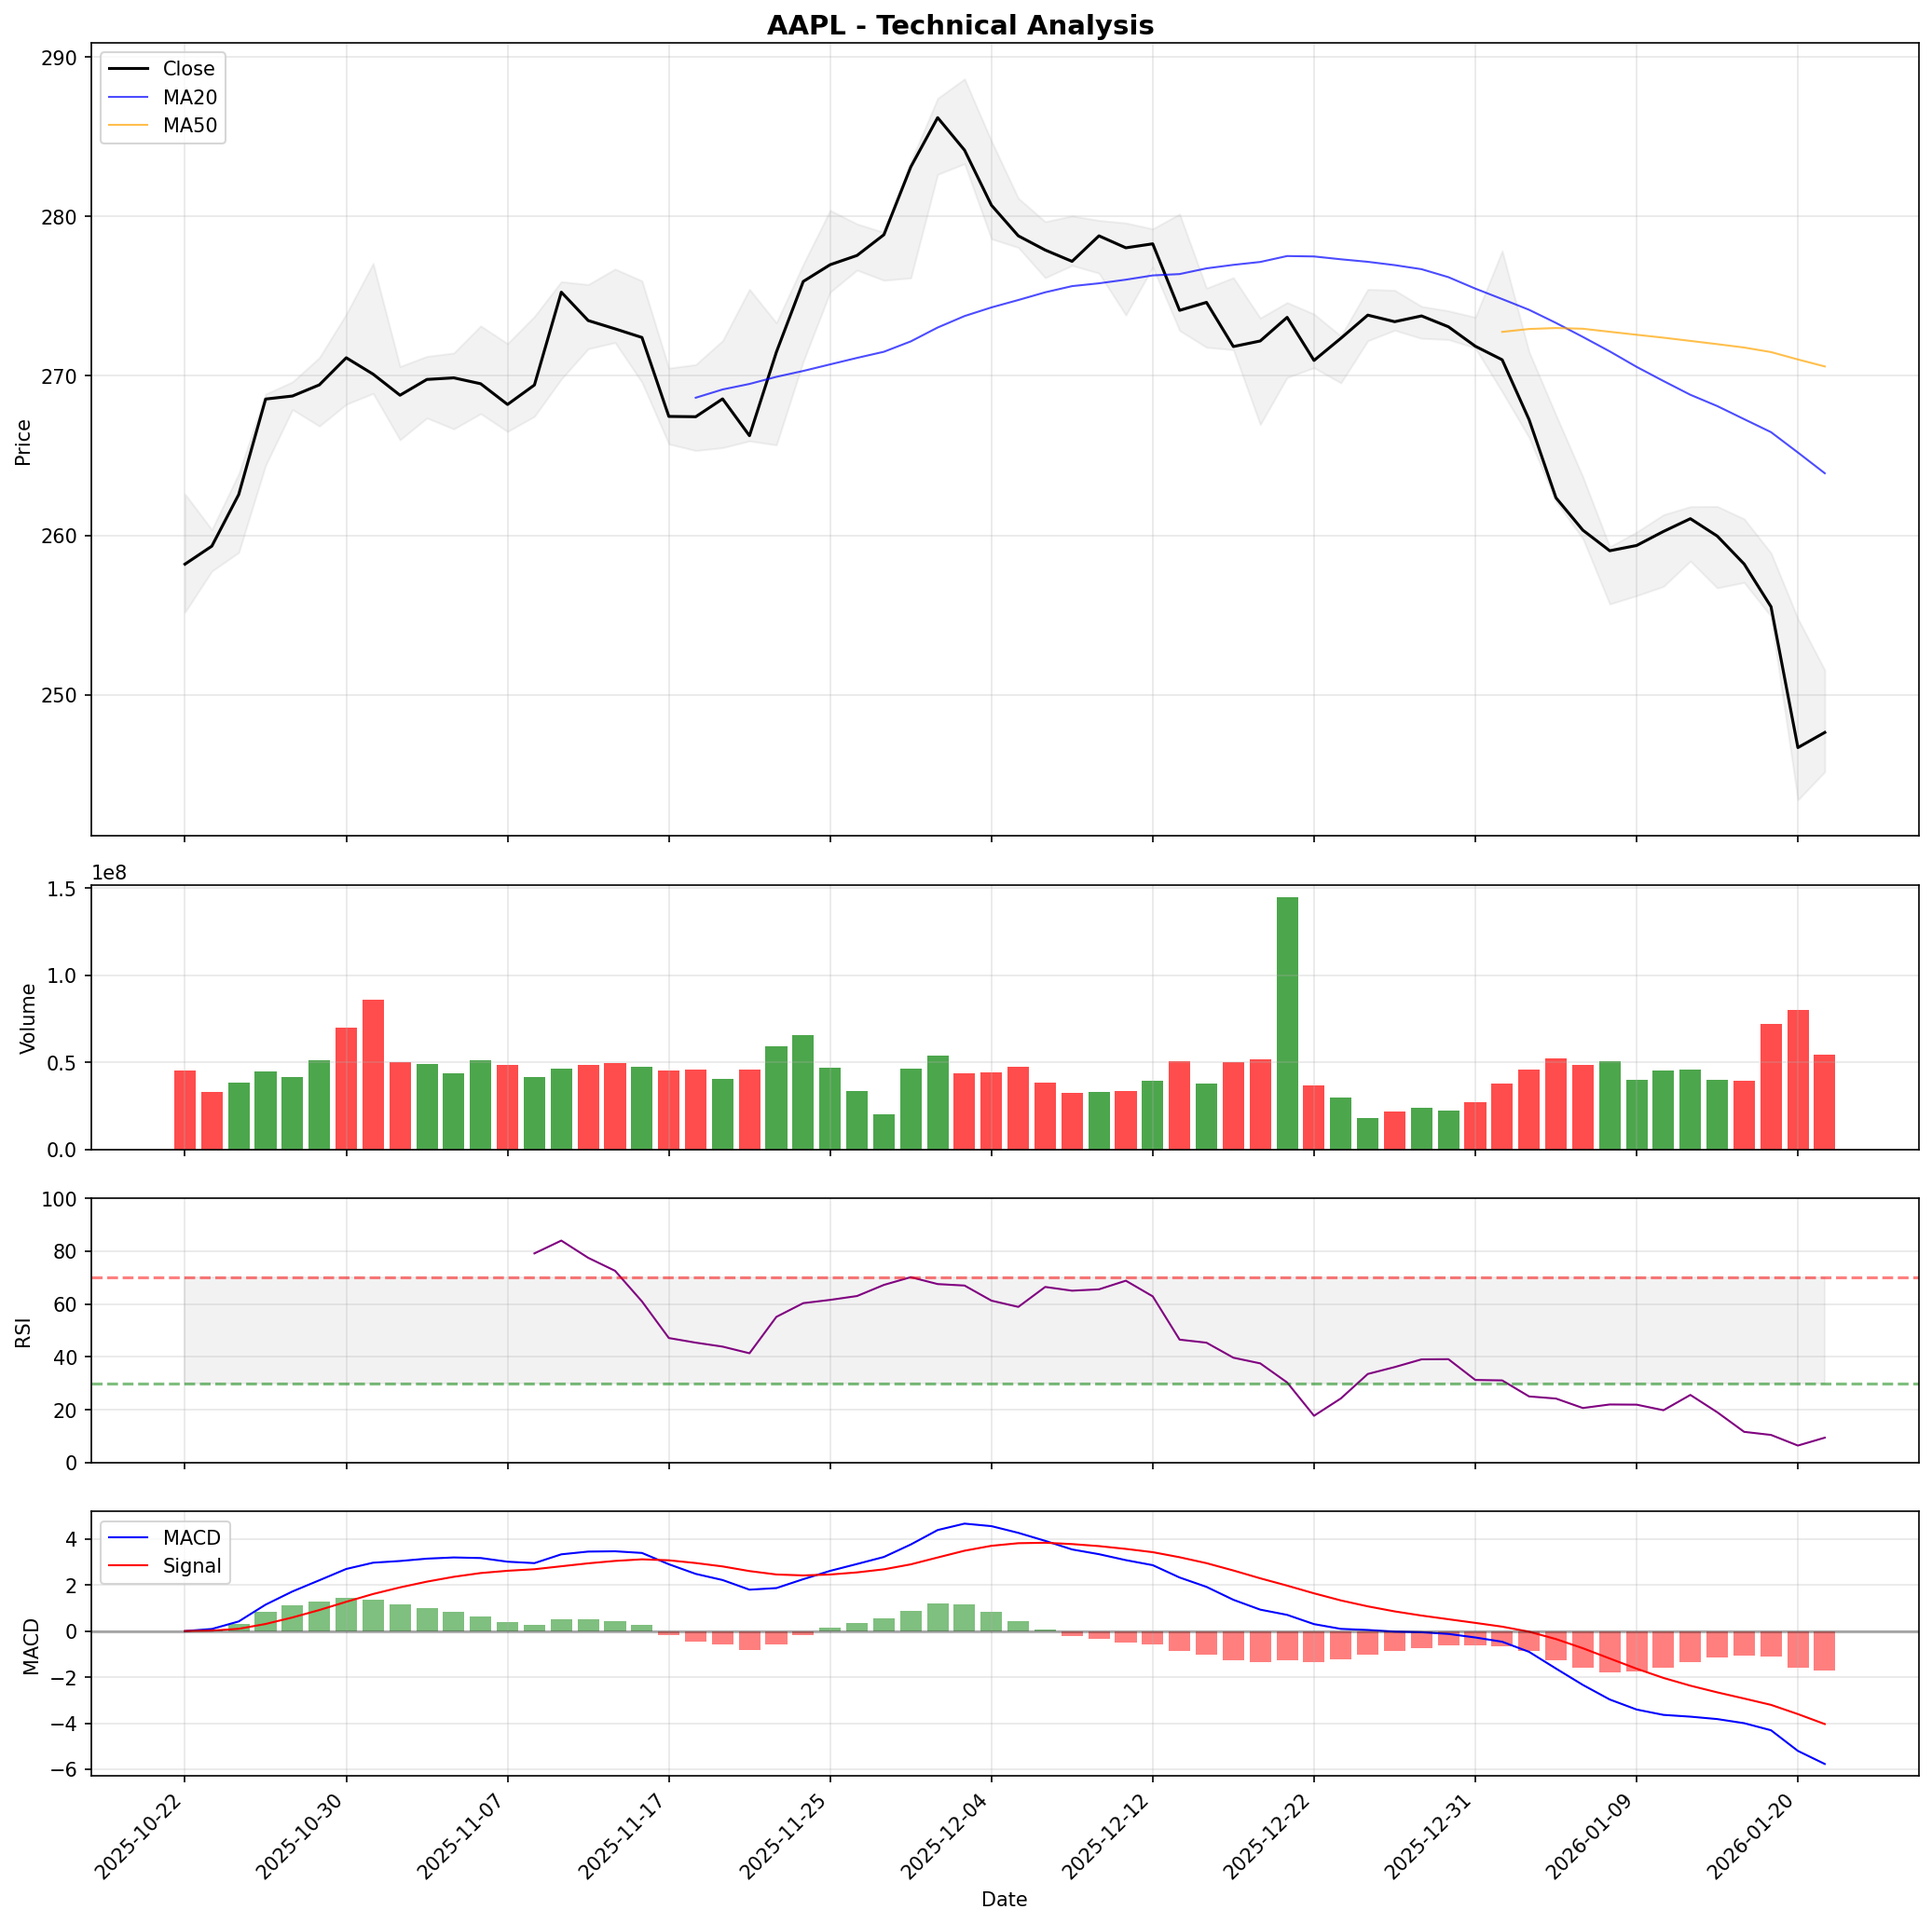
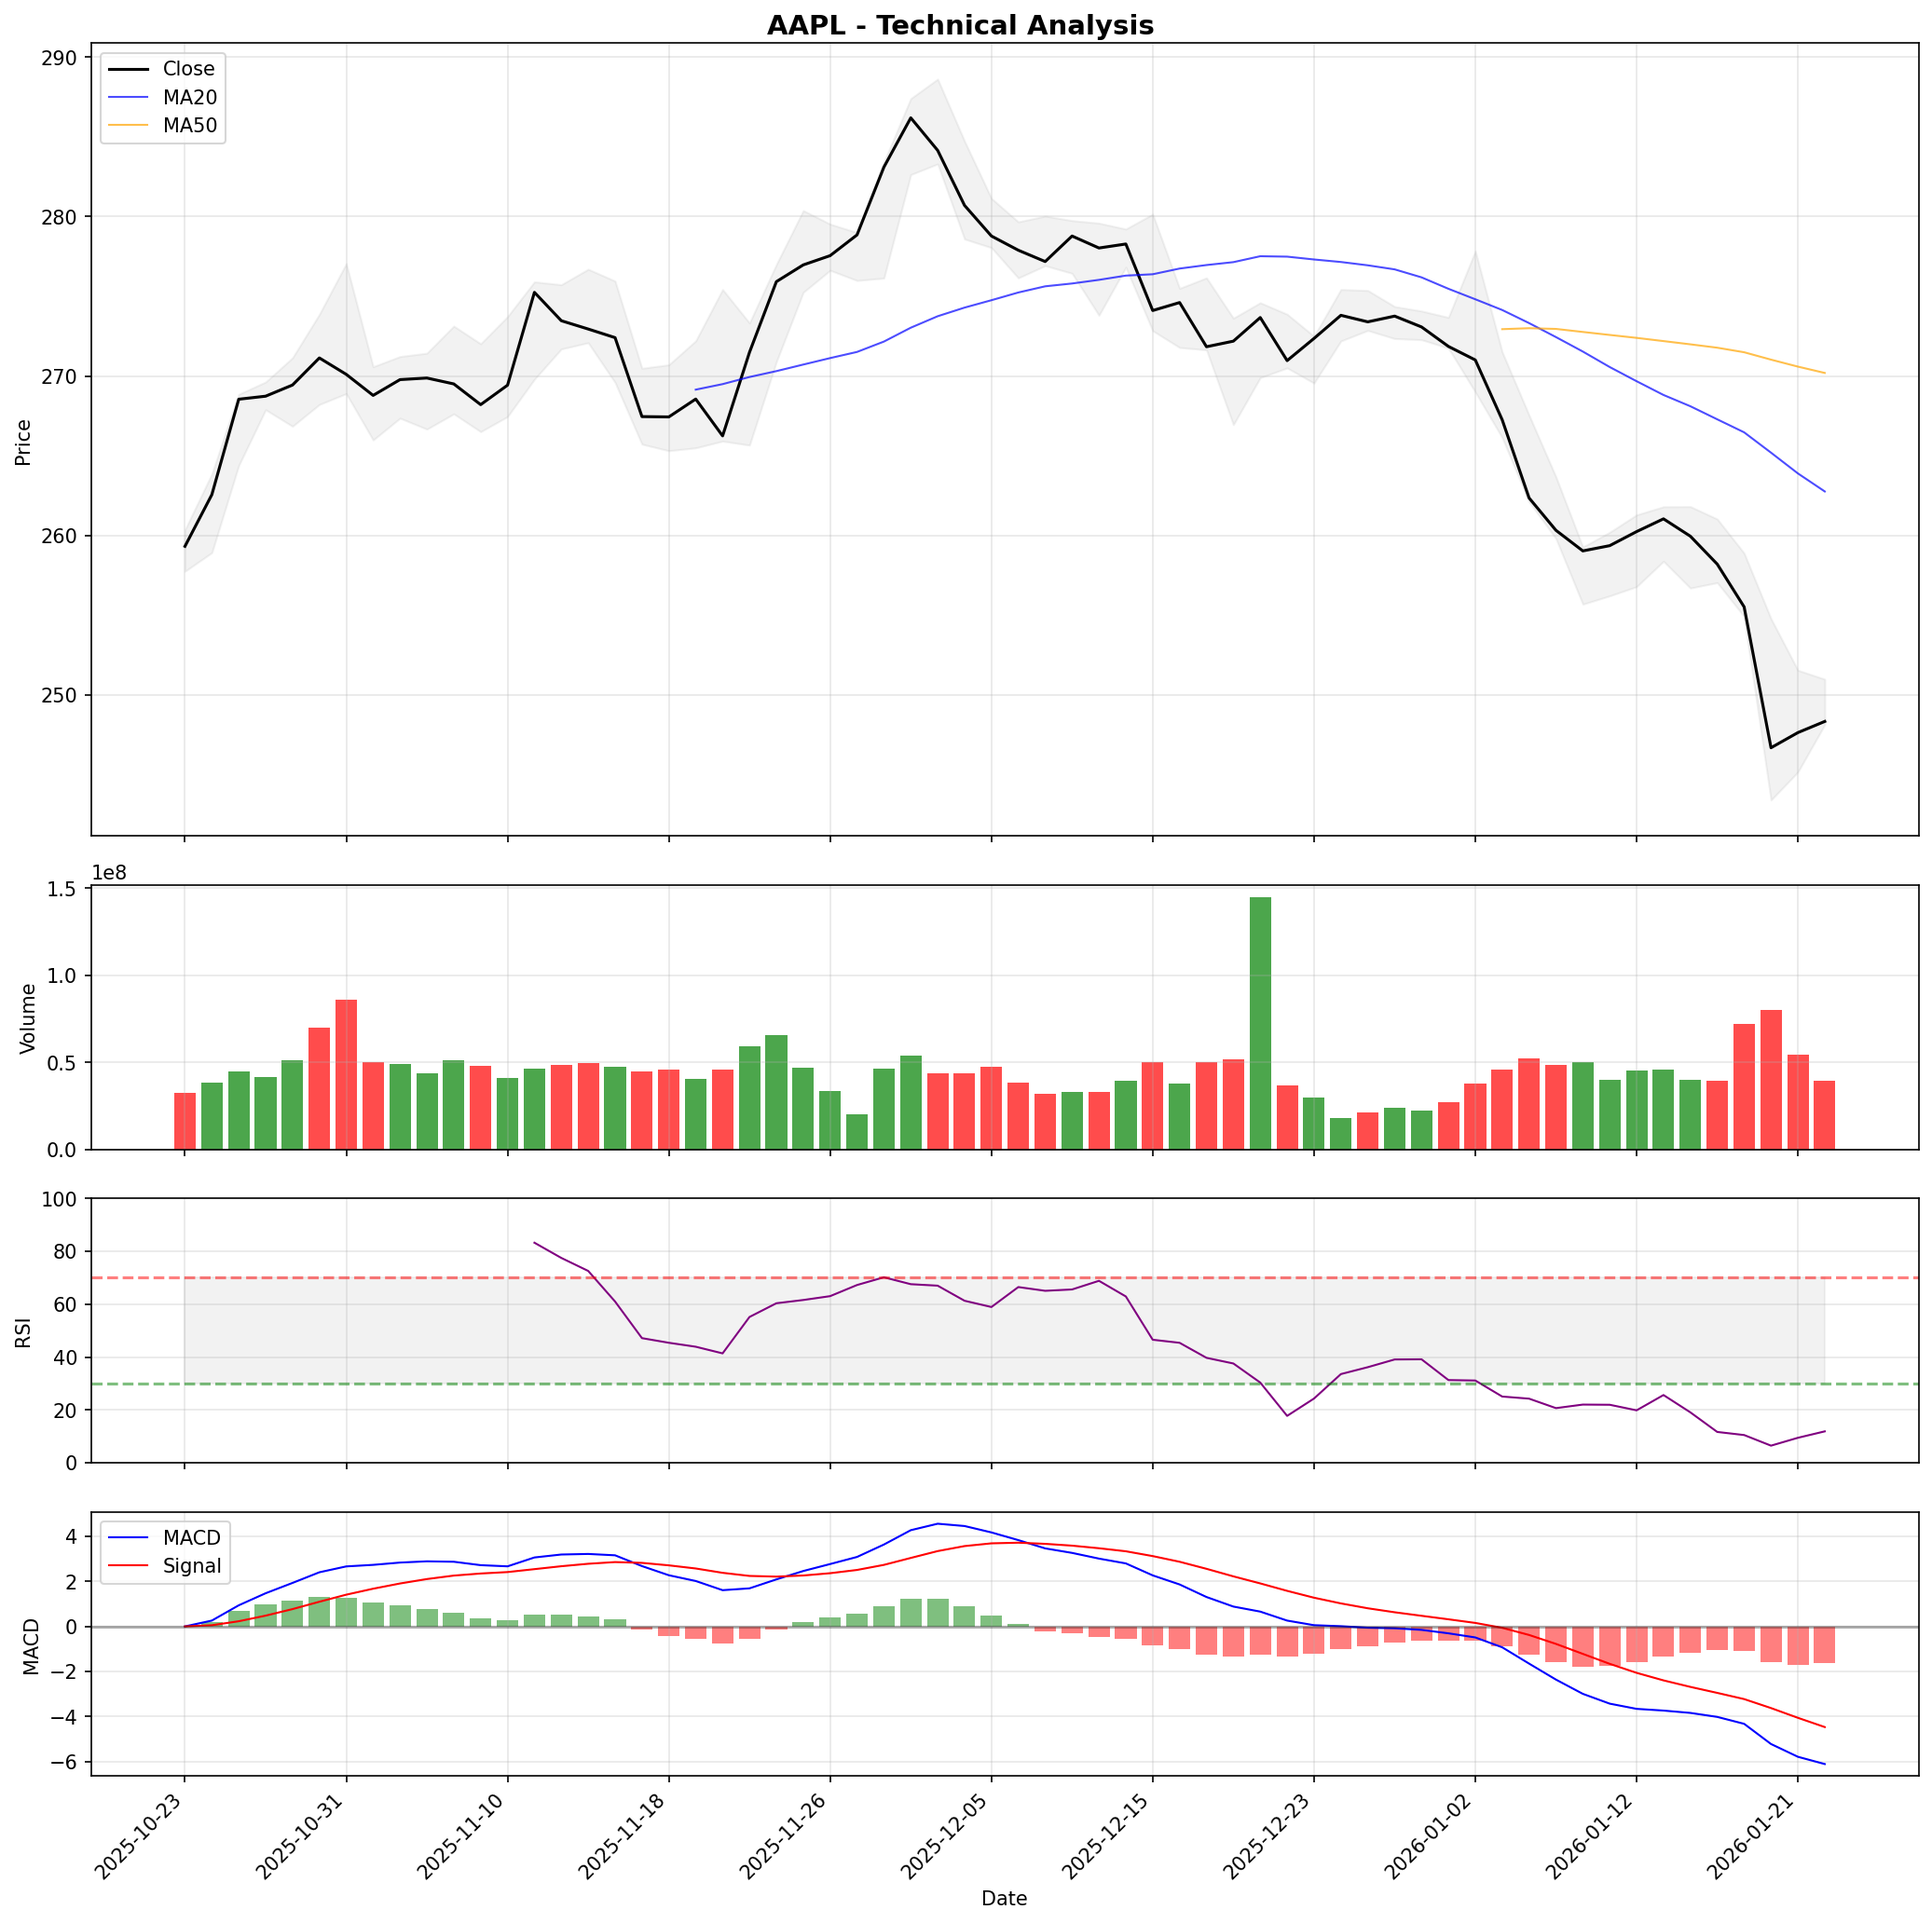
.

diff --git a/data_tools.py b/data_tools.py
@@ -6,6 +6,8 @@ Implements data fetching and caching following reference code patterns.
 import yfinance as yf
 import pandas as pd
 import numpy as np
+import matplotlib
+matplotlib.use('Agg')  # Use non-GUI backend to avoid Tkinter threading issues
 import matplotlib.pyplot as plt
 import matplotlib.dates as mdates
 from datetime import datetime, timedelta
@@ -140,6 +142,10 @@ def fetch_news_for_ticker(ticker: str, count: int = 10) -> List[dict]:
         data = yf.Ticker(ticker.upper()).get_news(count=count)
         news_list = []
         
+        if not data:
+            print(f"[!] {ticker} : No news articles found")
+            return []
+        
         for item in data[:count]:
             if 'content' not in item:
                 continue
@@ -147,7 +153,8 @@ def fetch_news_for_ticker(ticker: str, count: int = 10) -> List[dict]:
             content = item['content']
             
             # Extract URL following reference code logic
-            url = content.get('clickThroughUrl', {}).get('url')
+            click_url_obj = content.get('clickThroughUrl')
+            url = click_url_obj.get('url') if click_url_obj else None
             
             # Extract and format publication date
             pub_date_raw = content.get('pubDate', '')
@@ -248,8 +255,8 @@ def generate_ohlcv_chart(ticker: str, df: pd.DataFrame, save_path: Optional[str]
 
 def generate_technical_chart(ticker: str, df: pd.DataFrame, save_path: Optional[str] = None) -> str:
     """
-    Generate a comprehensive technical analysis chart with indicators.
-    Includes: Price with MAs, RSI, MACD, Volume.
+    Generate a comprehensive technical analysis chart with candlesticks.
+    Includes: Candlestick with MA 5/20/50, Volume with MA 5/20/50, RSI, MACD.
     
     Args:
         ticker: Stock ticker symbol
@@ -264,10 +271,20 @@ def generate_technical_chart(ticker: str, df: pd.DataFrame, save_path: Optional[
     
     # Calculate indicators
     closes = df['Close']
+    opens = df['Open']
+    highs = df['High']
+    lows = df['Low']
+    volumes = df['Volume']
     
-    # Moving Averages
+    # Price Moving Averages (5, 20, 50)
+    ma5 = closes.rolling(window=5).mean() if len(df) >= 5 else closes
     ma20 = closes.rolling(window=20).mean() if len(df) >= 20 else closes
     ma50 = closes.rolling(window=50).mean() if len(df) >= 50 else closes
+    
+    # Volume Moving Averages (5, 20, 50)
+    vol_ma5 = volumes.rolling(window=5).mean() if len(df) >= 5 else volumes
+    vol_ma20 = volumes.rolling(window=20).mean() if len(df) >= 20 else volumes
+    vol_ma50 = volumes.rolling(window=50).mean() if len(df) >= 50 else volumes
     
     # RSI
     delta = closes.diff()
@@ -284,55 +301,82 @@ def generate_technical_chart(ticker: str, df: pd.DataFrame, save_path: Optional[
     macd_hist = macd_line - signal_line
     
     # Create figure with 4 subplots
-    fig, (ax1, ax2, ax3, ax4) = plt.subplots(4, 1, figsize=(14, 14),
-                                              gridspec_kw={'height_ratios': [3, 1, 1, 1]},
+    fig, (ax1, ax2, ax3, ax4) = plt.subplots(4, 1, figsize=(16, 16),
+                                              gridspec_kw={'height_ratios': [4, 1.5, 1, 1]},
                                               sharex=True)
     
-    fig.suptitle(f'{ticker} - Technical Analysis', fontsize=14, fontweight='bold')
+    fig.suptitle(f'{ticker} - Technical Analysis (Candlestick)', fontsize=14, fontweight='bold')
     
-    x = range(len(df))
+    x = np.arange(len(df))
     
-    # Price with MAs
-    ax1.plot(x, closes, 'k-', linewidth=1.5, label='Close')
-    ax1.plot(x, ma20, 'b-', linewidth=1, label='MA20', alpha=0.7)
-    ax1.plot(x, ma50, 'orange', linewidth=1, label='MA50', alpha=0.7)
-    ax1.fill_between(x, df['Low'], df['High'], alpha=0.1, color='gray')
-    ax1.set_ylabel('Price')
-    ax1.legend(loc='upper left')
-    ax1.grid(True, alpha=0.3)
+    # ===== CANDLESTICK CHART =====
+    # Determine colors
+    colors = ['#26A69A' if c >= o else '#EF5350' for c, o in zip(closes, opens)]  # Green / Red
     
-    # Volume
-    colors = ['green' if c >= o else 'red' for c, o in zip(df['Close'], df['Open'])]
-    ax2.bar(x, df['Volume'], color=colors, alpha=0.7)
-    ax2.set_ylabel('Volume')
-    ax2.grid(True, alpha=0.3)
+    # Draw candlesticks
+    width = 0.6
+    for i in range(len(df)):
+        o, h, l, c = opens.iloc[i], highs.iloc[i], lows.iloc[i], closes.iloc[i]
+        color = colors[i]
+        
+        # Wick (high-low line)
+        ax1.plot([i, i], [l, h], color=color, linewidth=0.8)
+        
+        # Body (open-close rectangle)
+        body_bottom = min(o, c)
+        body_height = abs(c - o)
+        if body_height < 0.001:  # Doji - very small body
+            body_height = 0.001
+        ax1.bar(i, body_height, bottom=body_bottom, width=width, 
+                color=color, edgecolor=color, linewidth=0.5)
     
-    # RSI
-    ax3.plot(x, rsi, 'purple', linewidth=1)
-    ax3.axhline(y=70, color='r', linestyle='--', alpha=0.5)
-    ax3.axhline(y=30, color='g', linestyle='--', alpha=0.5)
-    ax3.fill_between(x, 30, 70, alpha=0.1, color='gray')
-    ax3.set_ylabel('RSI')
+    # Price Moving Averages
+    ax1.plot(x, ma5, color='#2196F3', linewidth=1.2, label='MA5', alpha=0.9)
+    ax1.plot(x, ma20, color='#FF9800', linewidth=1.2, label='MA20', alpha=0.9)
+    ax1.plot(x, ma50, color='#9C27B0', linewidth=1.2, label='MA50', alpha=0.9)
+    
+    ax1.set_ylabel('Price', fontsize=10)
+    ax1.legend(loc='upper left', fontsize=8)
+    ax1.grid(True, alpha=0.3, linestyle='--')
+    ax1.set_xlim(-1, len(df))
+    
+    # ===== VOLUME CHART WITH MAs =====
+    ax2.bar(x, volumes, color=colors, alpha=0.6, width=width)
+    ax2.plot(x, vol_ma5, color='#2196F3', linewidth=1, label='Vol MA5', alpha=0.9)
+    ax2.plot(x, vol_ma20, color='#FF9800', linewidth=1, label='Vol MA20', alpha=0.9)
+    ax2.plot(x, vol_ma50, color='#9C27B0', linewidth=1, label='Vol MA50', alpha=0.9)
+    ax2.set_ylabel('Volume', fontsize=10)
+    ax2.legend(loc='upper left', fontsize=8)
+    ax2.grid(True, alpha=0.3, linestyle='--')
+    
+    # ===== RSI =====
+    ax3.plot(x, rsi, color='#7E57C2', linewidth=1.2)
+    ax3.axhline(y=70, color='#EF5350', linestyle='--', alpha=0.7, linewidth=0.8)
+    ax3.axhline(y=30, color='#26A69A', linestyle='--', alpha=0.7, linewidth=0.8)
+    ax3.axhline(y=50, color='gray', linestyle='-', alpha=0.3, linewidth=0.5)
+    ax3.fill_between(x, 30, 70, alpha=0.05, color='gray')
+    ax3.set_ylabel('RSI', fontsize=10)
     ax3.set_ylim(0, 100)
-    ax3.grid(True, alpha=0.3)
+    ax3.grid(True, alpha=0.3, linestyle='--')
     
-    # MACD
-    ax4.plot(x, macd_line, 'b-', linewidth=1, label='MACD')
-    ax4.plot(x, signal_line, 'r-', linewidth=1, label='Signal')
-    macd_colors = ['green' if h >= 0 else 'red' for h in macd_hist]
-    ax4.bar(x, macd_hist, color=macd_colors, alpha=0.5)
-    ax4.axhline(y=0, color='black', linestyle='-', alpha=0.3)
-    ax4.set_ylabel('MACD')
-    ax4.legend(loc='upper left')
-    ax4.grid(True, alpha=0.3)
+    # ===== MACD =====
+    ax4.plot(x, macd_line, color='#2196F3', linewidth=1, label='MACD')
+    ax4.plot(x, signal_line, color='#FF9800', linewidth=1, label='Signal')
+    macd_colors = ['#26A69A' if h >= 0 else '#EF5350' for h in macd_hist]
+    ax4.bar(x, macd_hist, color=macd_colors, alpha=0.6, width=width)
+    ax4.axhline(y=0, color='gray', linestyle='-', alpha=0.5, linewidth=0.5)
+    ax4.set_ylabel('MACD', fontsize=10)
+    ax4.legend(loc='upper left', fontsize=8)
+    ax4.grid(True, alpha=0.3, linestyle='--')
     
-    # Format x-axis
+    # Format x-axis with dates
     dates = df.index
-    tick_positions = list(range(0, len(dates), max(1, len(dates) // 10)))
-    tick_labels = [dates[i].strftime('%Y-%m-%d') for i in tick_positions]
+    tick_count = min(12, len(dates))
+    tick_positions = list(range(0, len(dates), max(1, len(dates) // tick_count)))
+    tick_labels = [dates[i].strftime('%m-%d') for i in tick_positions]
     ax4.set_xticks(tick_positions)
-    ax4.set_xticklabels(tick_labels, rotation=45, ha='right')
-    ax4.set_xlabel('Date')
+    ax4.set_xticklabels(tick_labels, rotation=45, ha='right', fontsize=8)
+    ax4.set_xlabel('Date', fontsize=10)
     
     plt.tight_layout()
     plt.savefig(save_path, dpi=150, bbox_inches='tight',
